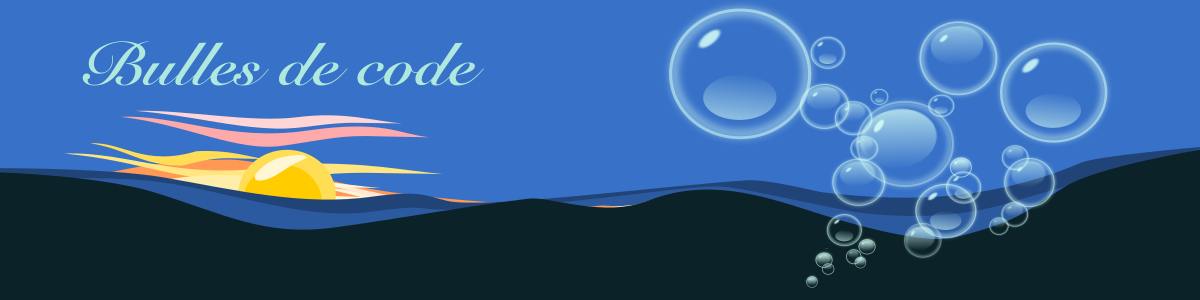
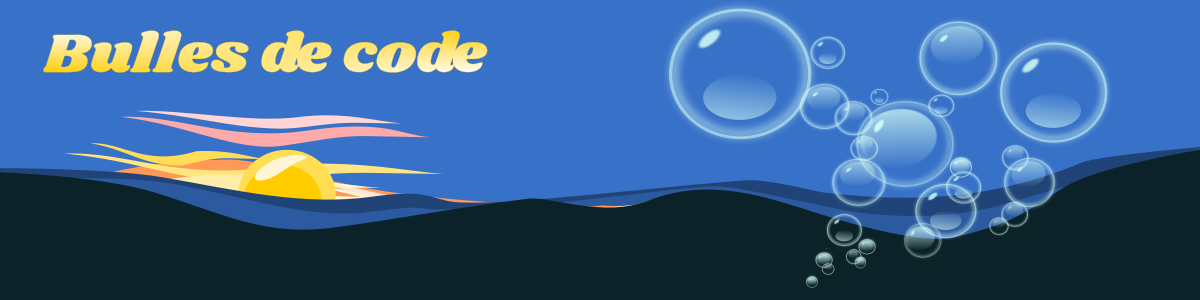
title and align

Changed region(s): [[0.0308, 0.09, 0.4317, 0.3]]

diff --git a/index.html b/index.html
@@ -29,11 +29,6 @@ page_assets: /assets/images/landpage/
     <img style="width:100%;object-fit: contain;margin: 0"
     src="{{site.baseurl}}{{page.page_assets}}landpage.svg"/>
 
-    <div style="position:absolute;left:3;top:2;">
-      <span style="font-size:3em;color:#bcea00;font-family: 'Coiny', cursive;">Bulles de code</span>
-    </div>
-
-
     <div>
       <div style="display:flex;flex-direction:row;">
         <img style="float:left;" src="{{site.baseurl}}/assets/images/bullet.svg" />
